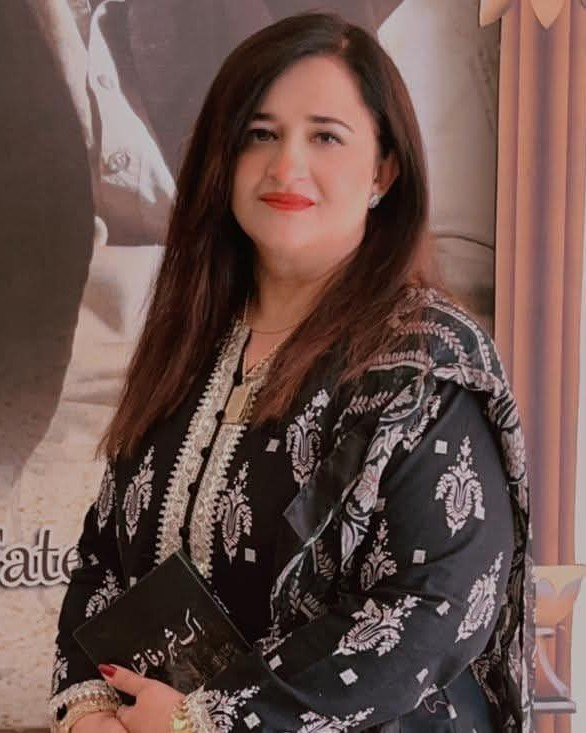
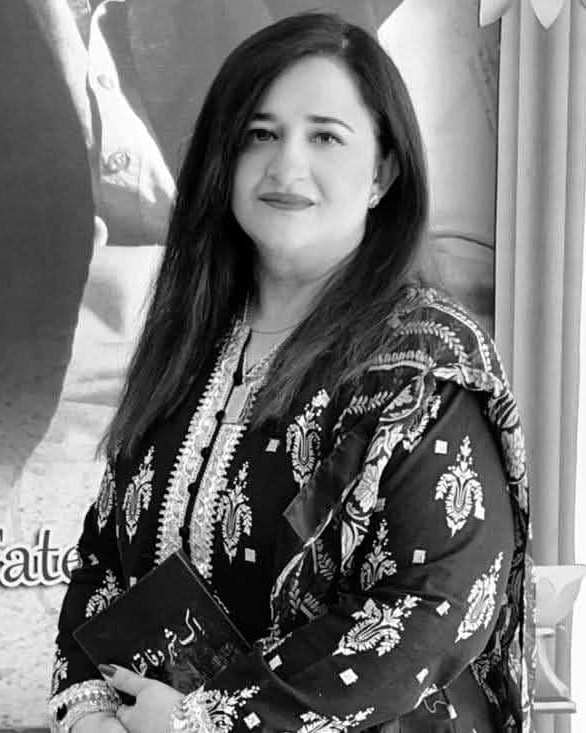
Hang the hero portrait in black and white, a little smaller

diff --git a/src/scene/HeroRoom.tsx b/src/scene/HeroRoom.tsx
@@ -19,6 +19,7 @@ export function HeroRoom() {
   const ratio = 733 / 586; // height / width of portrait.jpg
   const mat = 0.14; // mat and frame grow with the photo, as fractions of its height
   const edge = 0.16;
+  const scale = 0.85; // a little smaller than the space allows, so it sits more quietly
   const { hero: band } = useBands();
 
   // On desktop the print hangs centred in front of the name. On phones it is fitted into the
@@ -30,6 +31,7 @@ export function HeroRoom() {
     h = Math.min(((band.bottom - band.top) * px) / (1 + edge), viewport.width * 0.62 * ratio);
     centreY = (size.height / 2 - (band.top + band.bottom) / 2) * px;
   }
+  h *= scale;
   const w = h / ratio;
 
   useRoomFrame((state, dt) => {
